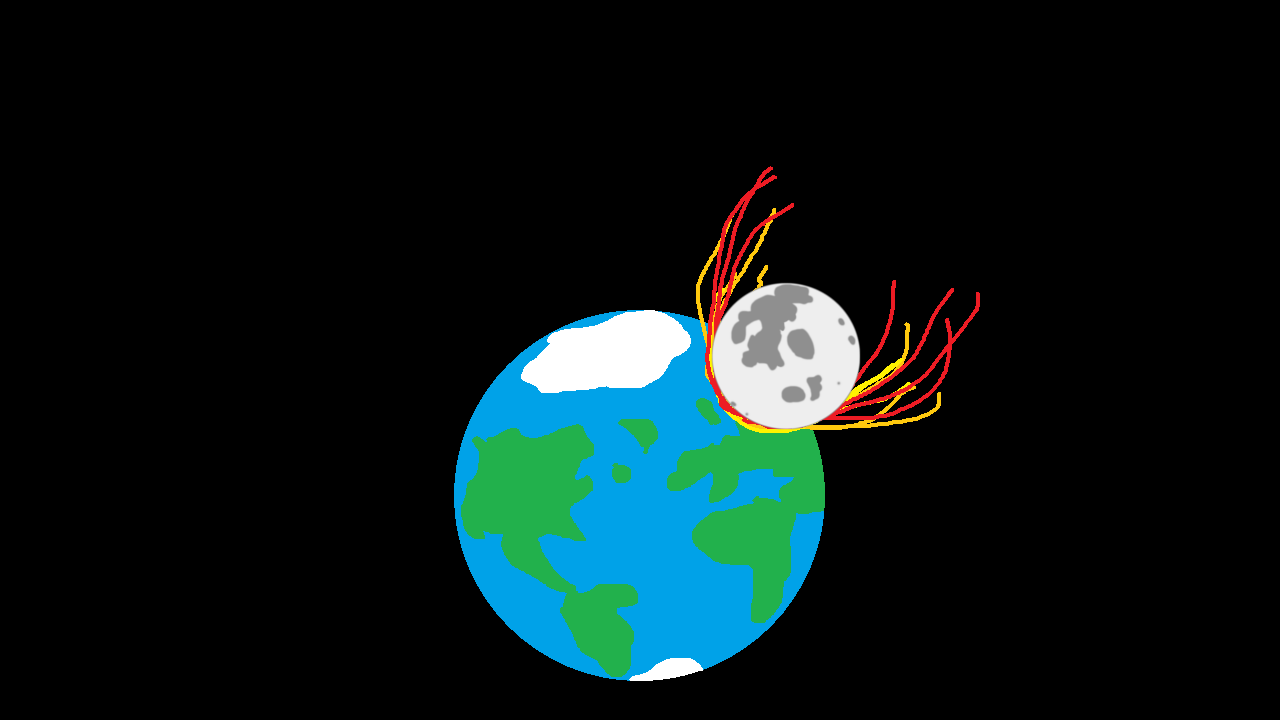
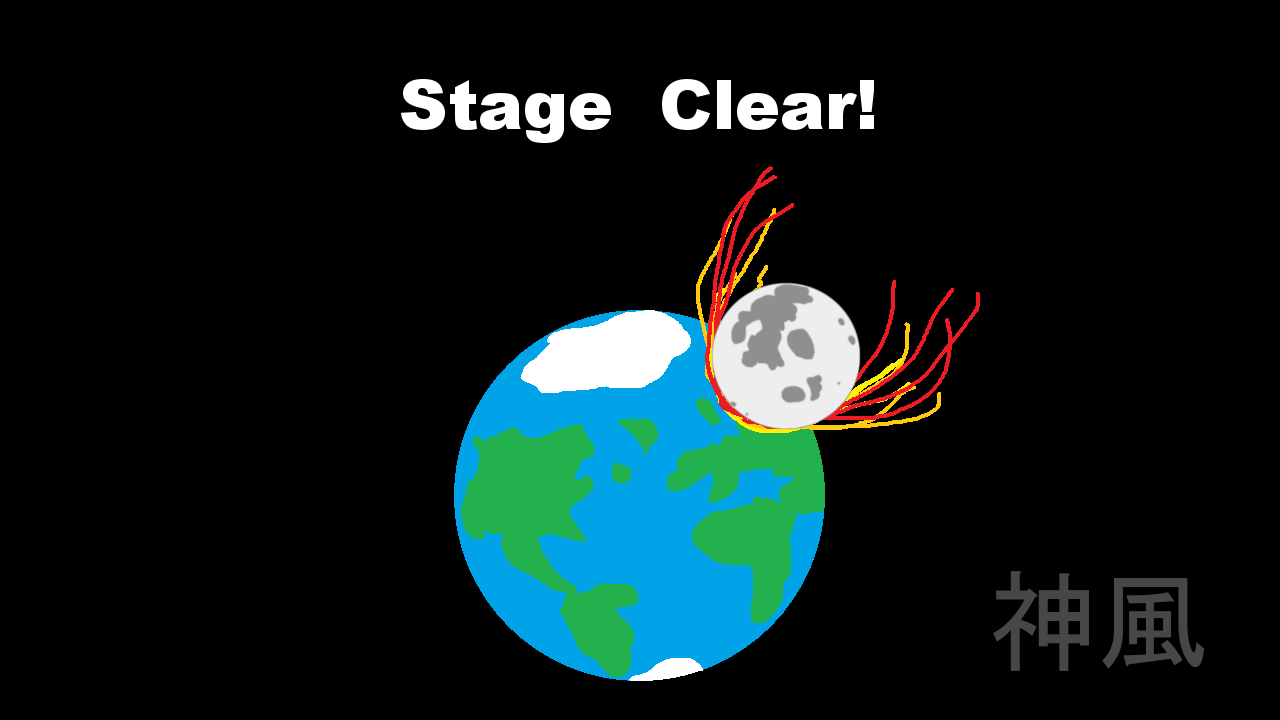
added text to background image to replace dynamic text on stage clear
left in font stuff for when a font exists, commented out for DevFest
milestone

Changed region(s): [[0.3125, 0.0917, 0.6875, 0.2139], [0.7812, 0.7944, 0.9375, 0.9472]]

diff --git a/core/src/broken/shotgun/throwthemoon/screens/StageClearScreen.java b/core/src/broken/shotgun/throwthemoon/screens/StageClearScreen.java
@@ -7,17 +7,12 @@ import com.badlogic.gdx.Screen;
 import com.badlogic.gdx.assets.AssetManager;
 import com.badlogic.gdx.assets.loaders.TextureLoader;
 import com.badlogic.gdx.assets.loaders.resolvers.InternalFileHandleResolver;
-import com.badlogic.gdx.graphics.Color;
 import com.badlogic.gdx.graphics.GL20;
 import com.badlogic.gdx.graphics.Texture;
-import com.badlogic.gdx.graphics.g2d.Batch;
-import com.badlogic.gdx.graphics.g2d.BitmapFont;
-import com.badlogic.gdx.graphics.g2d.SpriteBatch;
 import com.badlogic.gdx.scenes.scene2d.InputEvent;
 import com.badlogic.gdx.scenes.scene2d.Stage;
 import com.badlogic.gdx.scenes.scene2d.ui.Image;
 import com.badlogic.gdx.scenes.scene2d.utils.ActorGestureListener;
-import com.badlogic.gdx.utils.Align;
 import com.badlogic.gdx.utils.viewport.StretchViewport;
 
 public class StageClearScreen implements Screen {
@@ -26,17 +21,17 @@ public class StageClearScreen implements Screen {
     
 	private final AssetManager manager;
 	private final Stage stage;
-	private final Batch uiBatch;
+	//private final Batch uiBatch;
 	
 	private static final String TEXTURE_FILENAME = "stageclearbg.png";
 	private Texture background;
-	private BitmapFont font;
-	private static final String STAGE_CLEAR_MESSAGE = "Stage Clear!";
+	//private BitmapFont font;
+	//private static final String STAGE_CLEAR_MESSAGE = "Stage Clear!";
 	
 	public StageClearScreen(final ThrowTheMoonGame game) {
         this.manager = new AssetManager();
         this.stage = new Stage(new StretchViewport(WIDTH, HEIGHT));
-        this.uiBatch = new SpriteBatch();
+        //this.uiBatch = new SpriteBatch();
         
         manager.setLoader(Texture.class, new TextureLoader(new InternalFileHandleResolver()));
         manager.load(TEXTURE_FILENAME, Texture.class);
@@ -46,8 +41,8 @@ public class StageClearScreen implements Screen {
         Image backgroundImg = new Image(background);
         stage.addActor(backgroundImg);
         
-        font = new BitmapFont();
-        font.setColor(Color.WHITE);
+        //font = new BitmapFont();
+        //font.setColor(Color.WHITE);
         
         Gdx.input.setInputProcessor(stage);
         
@@ -76,9 +71,9 @@ public class StageClearScreen implements Screen {
         stage.draw();
         stage.act(delta);
         
-        uiBatch.begin();
-        font.draw(uiBatch, STAGE_CLEAR_MESSAGE, 0, Gdx.graphics.getHeight() * 0.75f, Gdx.graphics.getWidth(), Align.center, true);
-        uiBatch.end();
+        //uiBatch.begin();
+        //font.draw(uiBatch, STAGE_CLEAR_MESSAGE, 0, Gdx.graphics.getHeight() * 0.75f, Gdx.graphics.getWidth(), Align.center, true);
+        //uiBatch.end();
 	}
 
 	@Override
@@ -105,7 +100,7 @@ public class StageClearScreen implements Screen {
 	public void dispose() {
 		manager.dispose();
         stage.dispose();
-        font.dispose();
+        //font.dispose();
 	}
 
 }
